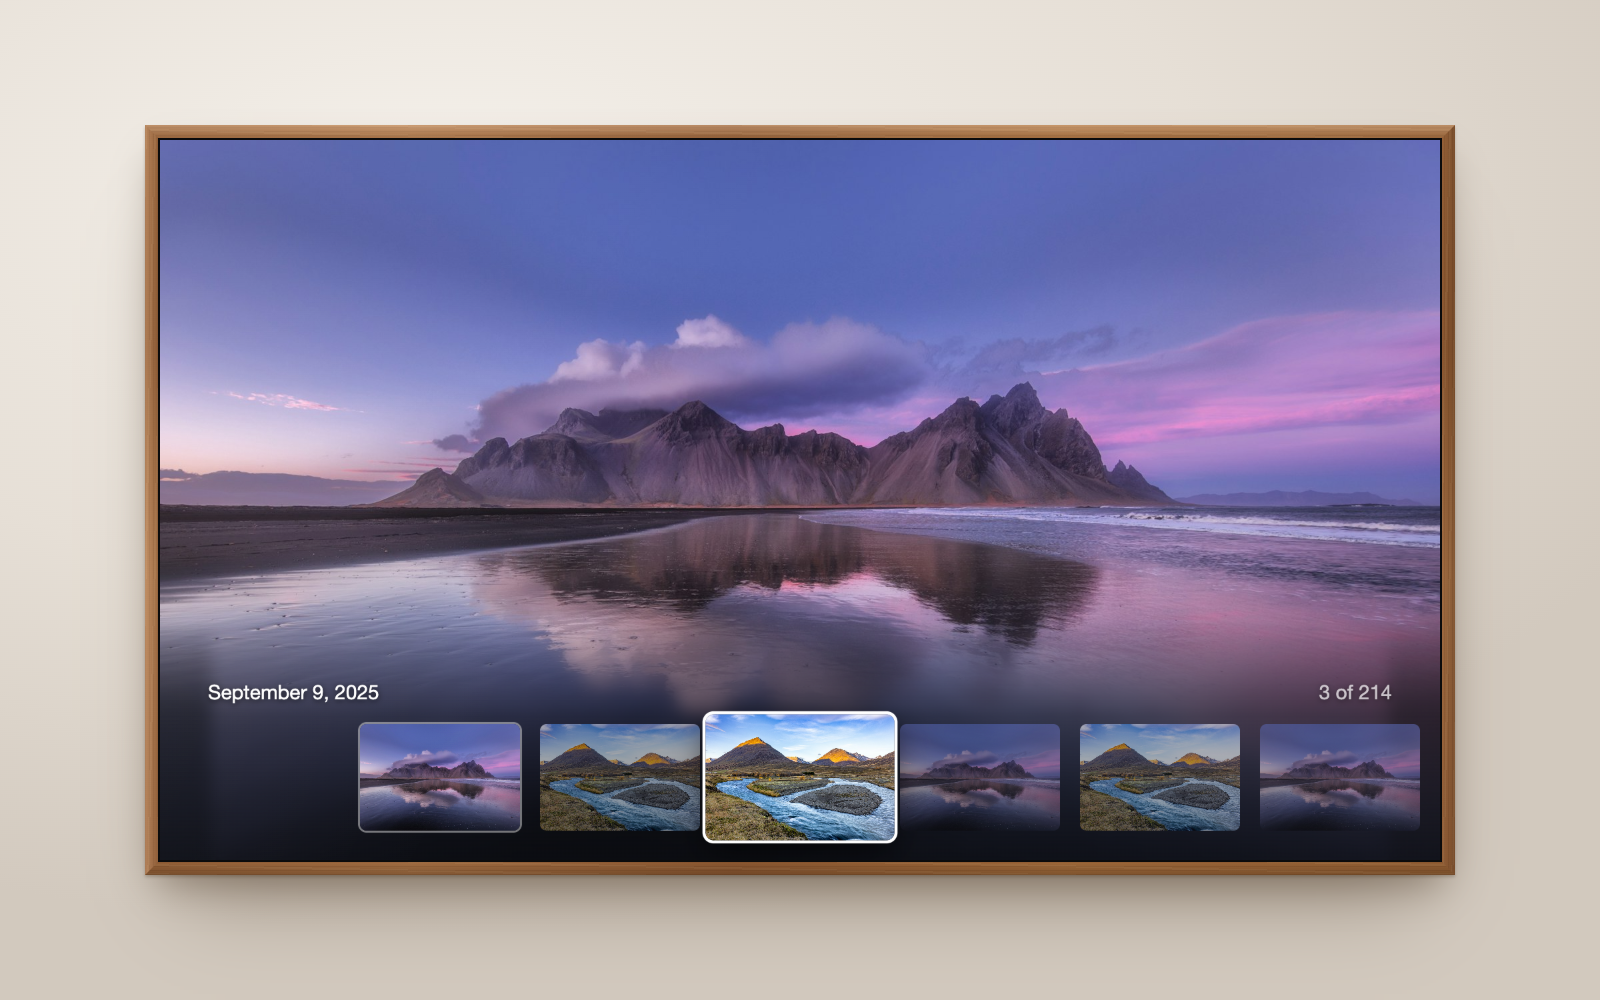
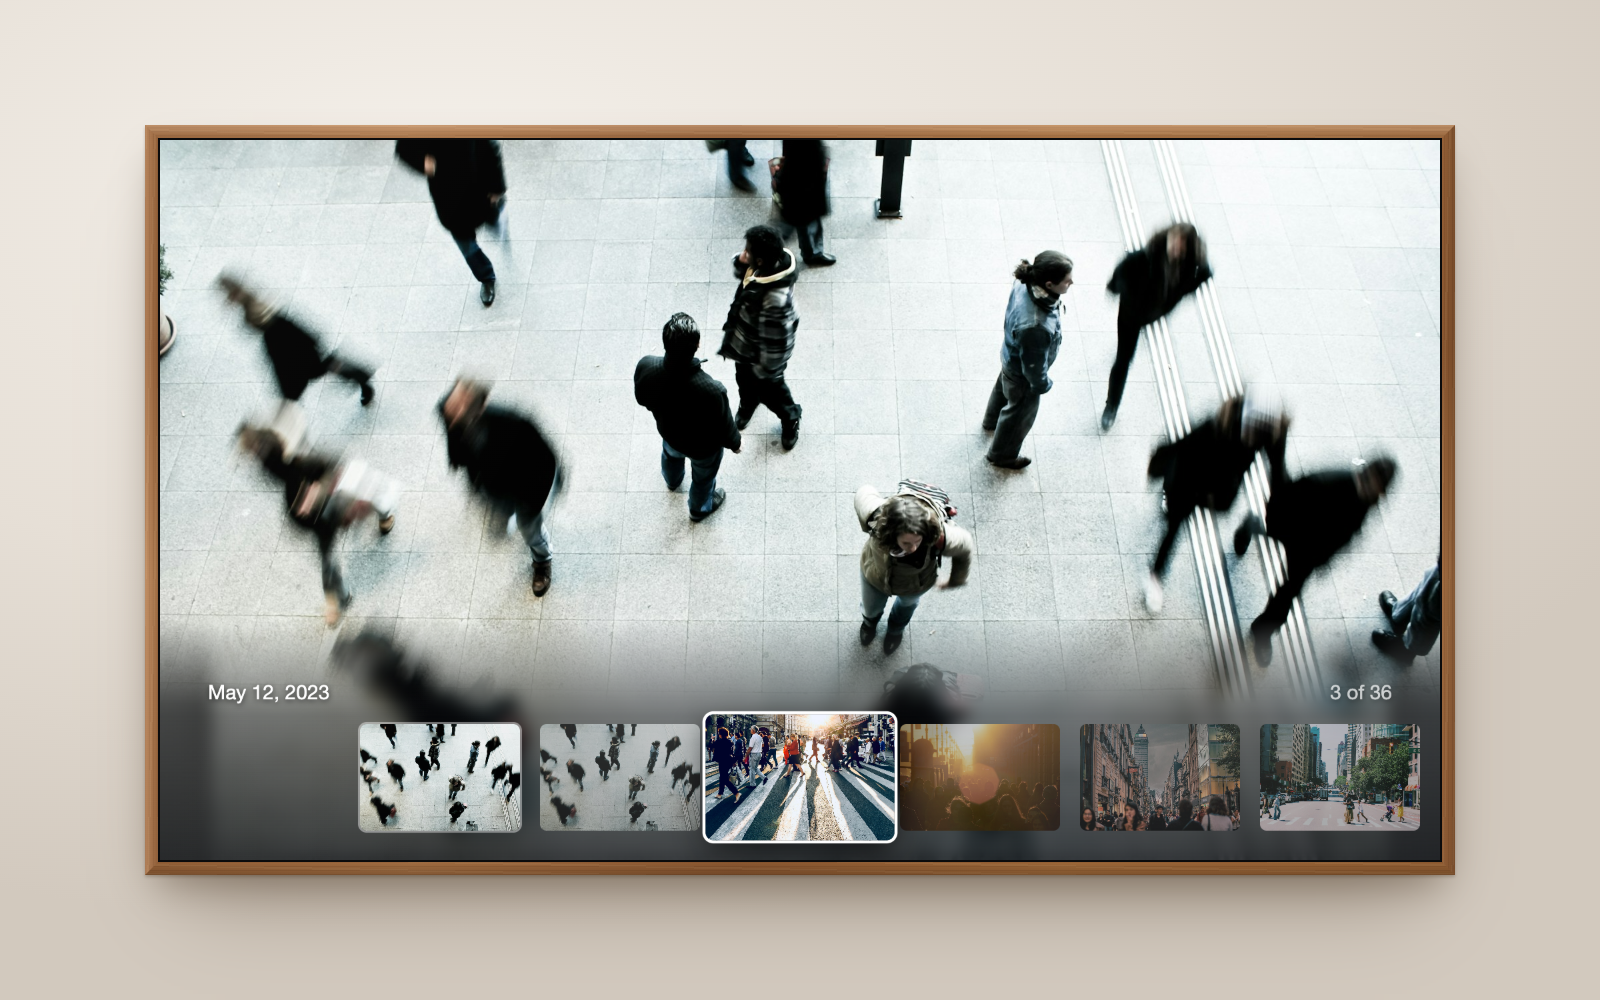
README: film strip screenshot with city people
The film strip shot now plays a new demo album, City Streets, of city
people from Unsplash (credited). The demo page skips decode waits, which
under headless Chrome's virtual clock left the photo too late for the shot.

diff --git a/dev/showcase.js b/dev/showcase.js
@@ -11,6 +11,10 @@
   var style = document.createElement('style');
   style.textContent = '*, *::before, *::after { transition: none !important; animation: none !important; }';
   document.head.appendChild(style);
+  // Under headless Chrome's virtual clock, img.decode() only settles when a frame is drawn,
+  // so a photo could reach the screen too late for the keys below. Decoding ahead only
+  // matters for smooth fades on the TV.
+  HTMLImageElement.prototype.decode = function () { return Promise.resolve(); };
   function key(code) {
     document.dispatchEvent(new KeyboardEvent('keydown', { keyCode: code, bubbles: true }));
   }

diff --git a/dev/showcase.py b/dev/showcase.py
@@ -45,6 +45,19 @@ PHOTOS = {
                  "https://unsplash.com/photos/pRzbLPQOnwM"),
     "making-coffee": ("photo-1579265898841-79c7890d69cf", "Pete Willis",
                       "https://unsplash.com/photos/QfTpbOey94s"),
+    # City people, for the film strip screenshot.
+    "city-walkway": ("photo-1454923634634-bd1614719a7b", "Timon Studler",
+                     "https://unsplash.com/photos/ABGaVhJxwDQ"),
+    "shibuya-crossing": ("photo-1528642474498-1af0c17fd8c3", "Ryoji Iwata",
+                         "https://unsplash.com/photos/IBaVuZsJJTo"),
+    "pedestrian-lane": ("photo-1517732306149-e8f829eb588a", "Jacek Dylag",
+                        "https://unsplash.com/photos/PMxT0XtQ--A"),
+    "sunset-street": ("photo-1713217130346-1629ca151547", "Kirill Fokin",
+                      "https://unsplash.com/photos/XCy9Ah0mSWA"),
+    "busy-street": ("photo-1493794179168-82ca7cb00437", "Jezael Melgoza",
+                    "https://unsplash.com/photos/KbR06h9dNQw"),
+    "crossing": ("photo-1518890714631-19d0b2fed537", "Jesus Kiteque",
+                 "https://unsplash.com/photos/9_C0iq8C0oY"),
 }
 
 
@@ -83,7 +96,12 @@ ALBUM_DEFS = [
     ("Espresso", ["forest", "autumn"], 2025, 10, 41, ["espresso"]),
     ("Hong Kong in the Rain", ["aurora", "lake"], 2025, 6, 77, ["hong-kong-rain"]),
     ("Latte Art Practice", ["autumn", "forest"], 2025, 4, 29, ["making-coffee"]),
+    # Played in the film strip screenshot. Old, so it sits at the end of the album grid
+    # (off the album grid screenshot).
+    ("City Streets", ["lake"], 2023, 5, 36,
+     ["city-walkway", "shibuya-crossing", "pedestrian-lane", "sunset-street", "busy-street", "crossing"]),
 ]
+FILMSTRIP_ALBUM = "City Streets"
 
 PALETTES = {
     # sky top, sky middle, horizon, sun

diff --git a/dev/mock_server.py b/dev/mock_server.py
@@ -275,17 +275,26 @@ class Handler(http.server.SimpleHTTPRequestHandler):
         self.end_headers()
         self.wfile.write(body)
 
+    def filmstrip_album(self):
+        import showcase
+        album = next(a for a in ALBUMS if a["name"] == showcase.FILMSTRIP_ALBUM)
+        return album["id"], album["name"]
+
     def showcase_page(self, path):
         if path == "/js/config.js":
             with open(os.path.join(ROOT, "js", "config.js")) as f:
                 body = f.read() + """
-// --showcase: sign in to this mock and play the newest demo album.
+// --showcase: sign in to this mock and play the newest demo album (for the film strip
+// screenshot, the album of city people).
 Object.assign(window.SYNFRAME_DEFAULTS, {
   server: location.origin, account: 'demo', password: 'demo',
   source: 'album', albumId: '21', albumName: 'Iceland Ring Road',
   order: 'newest', interval: 30, motion: false
 });
-"""
+if (location.hash === '#filmstrip') {
+  Object.assign(window.SYNFRAME_DEFAULTS, { albumId: '%s', albumName: '%s' });
+}
+""" % self.filmstrip_album()
             ctype = "application/javascript"
         else:
             with open(os.path.join(ROOT, "index.html")) as f:

diff --git a/README.md b/README.md
@@ -293,6 +293,12 @@ Photos in the screenshots are from [Unsplash](https://unsplash.com), used under 
 - [Hong Kong neon in the rain](https://unsplash.com/photos/DdQkVaQbSsg) by Nic Low
 - [Espresso portafilter](https://unsplash.com/photos/pRzbLPQOnwM) by Marko Alpner
 - [Making coffee](https://unsplash.com/photos/QfTpbOey94s) by Pete Willis
+- [People walking on a concrete floor](https://unsplash.com/photos/ABGaVhJxwDQ) by Timon Studler
+- [Shibuya Crossing](https://unsplash.com/photos/IBaVuZsJJTo) by Ryoji Iwata
+- [People on a pedestrian crossing](https://unsplash.com/photos/PMxT0XtQ--A) by Jacek Dylag
+- [Crowd on a street at sunset](https://unsplash.com/photos/XCy9Ah0mSWA) by Kirill Fokin
+- [Busy street](https://unsplash.com/photos/KbR06h9dNQw) by Jezael Melgoza
+- [People crossing a street](https://unsplash.com/photos/9_C0iq8C0oY) by Jesus Kiteque
 
 The Settings cog icon is from [Material Design Icons](https://github.com/google/material-design-icons) by Google, Apache License 2.0.
 
